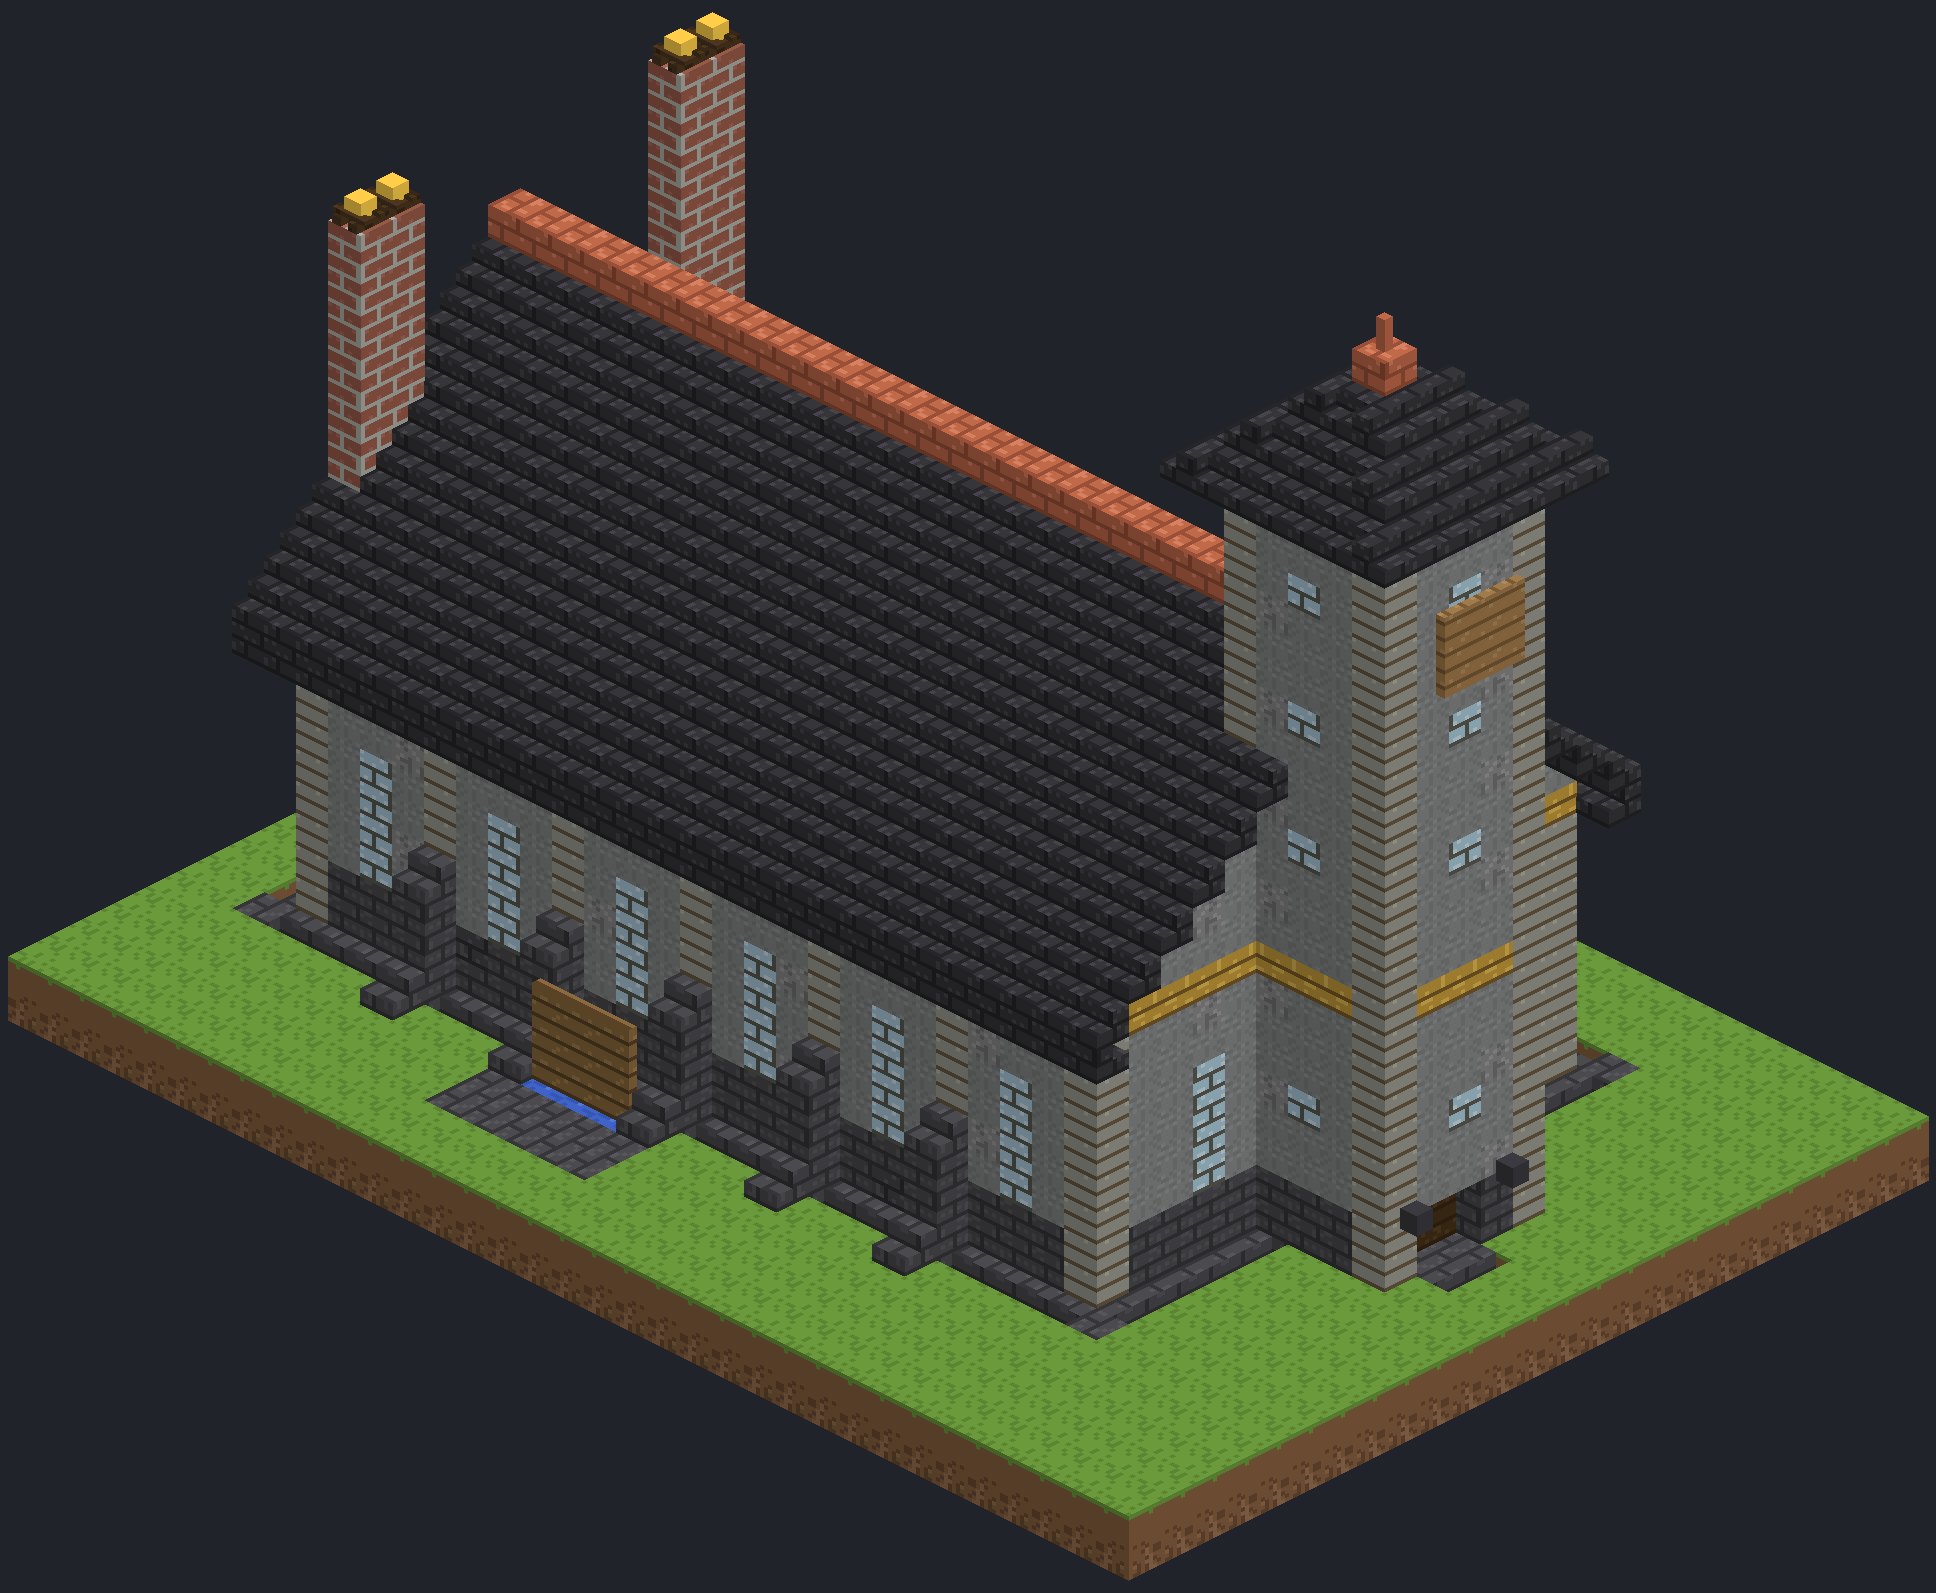
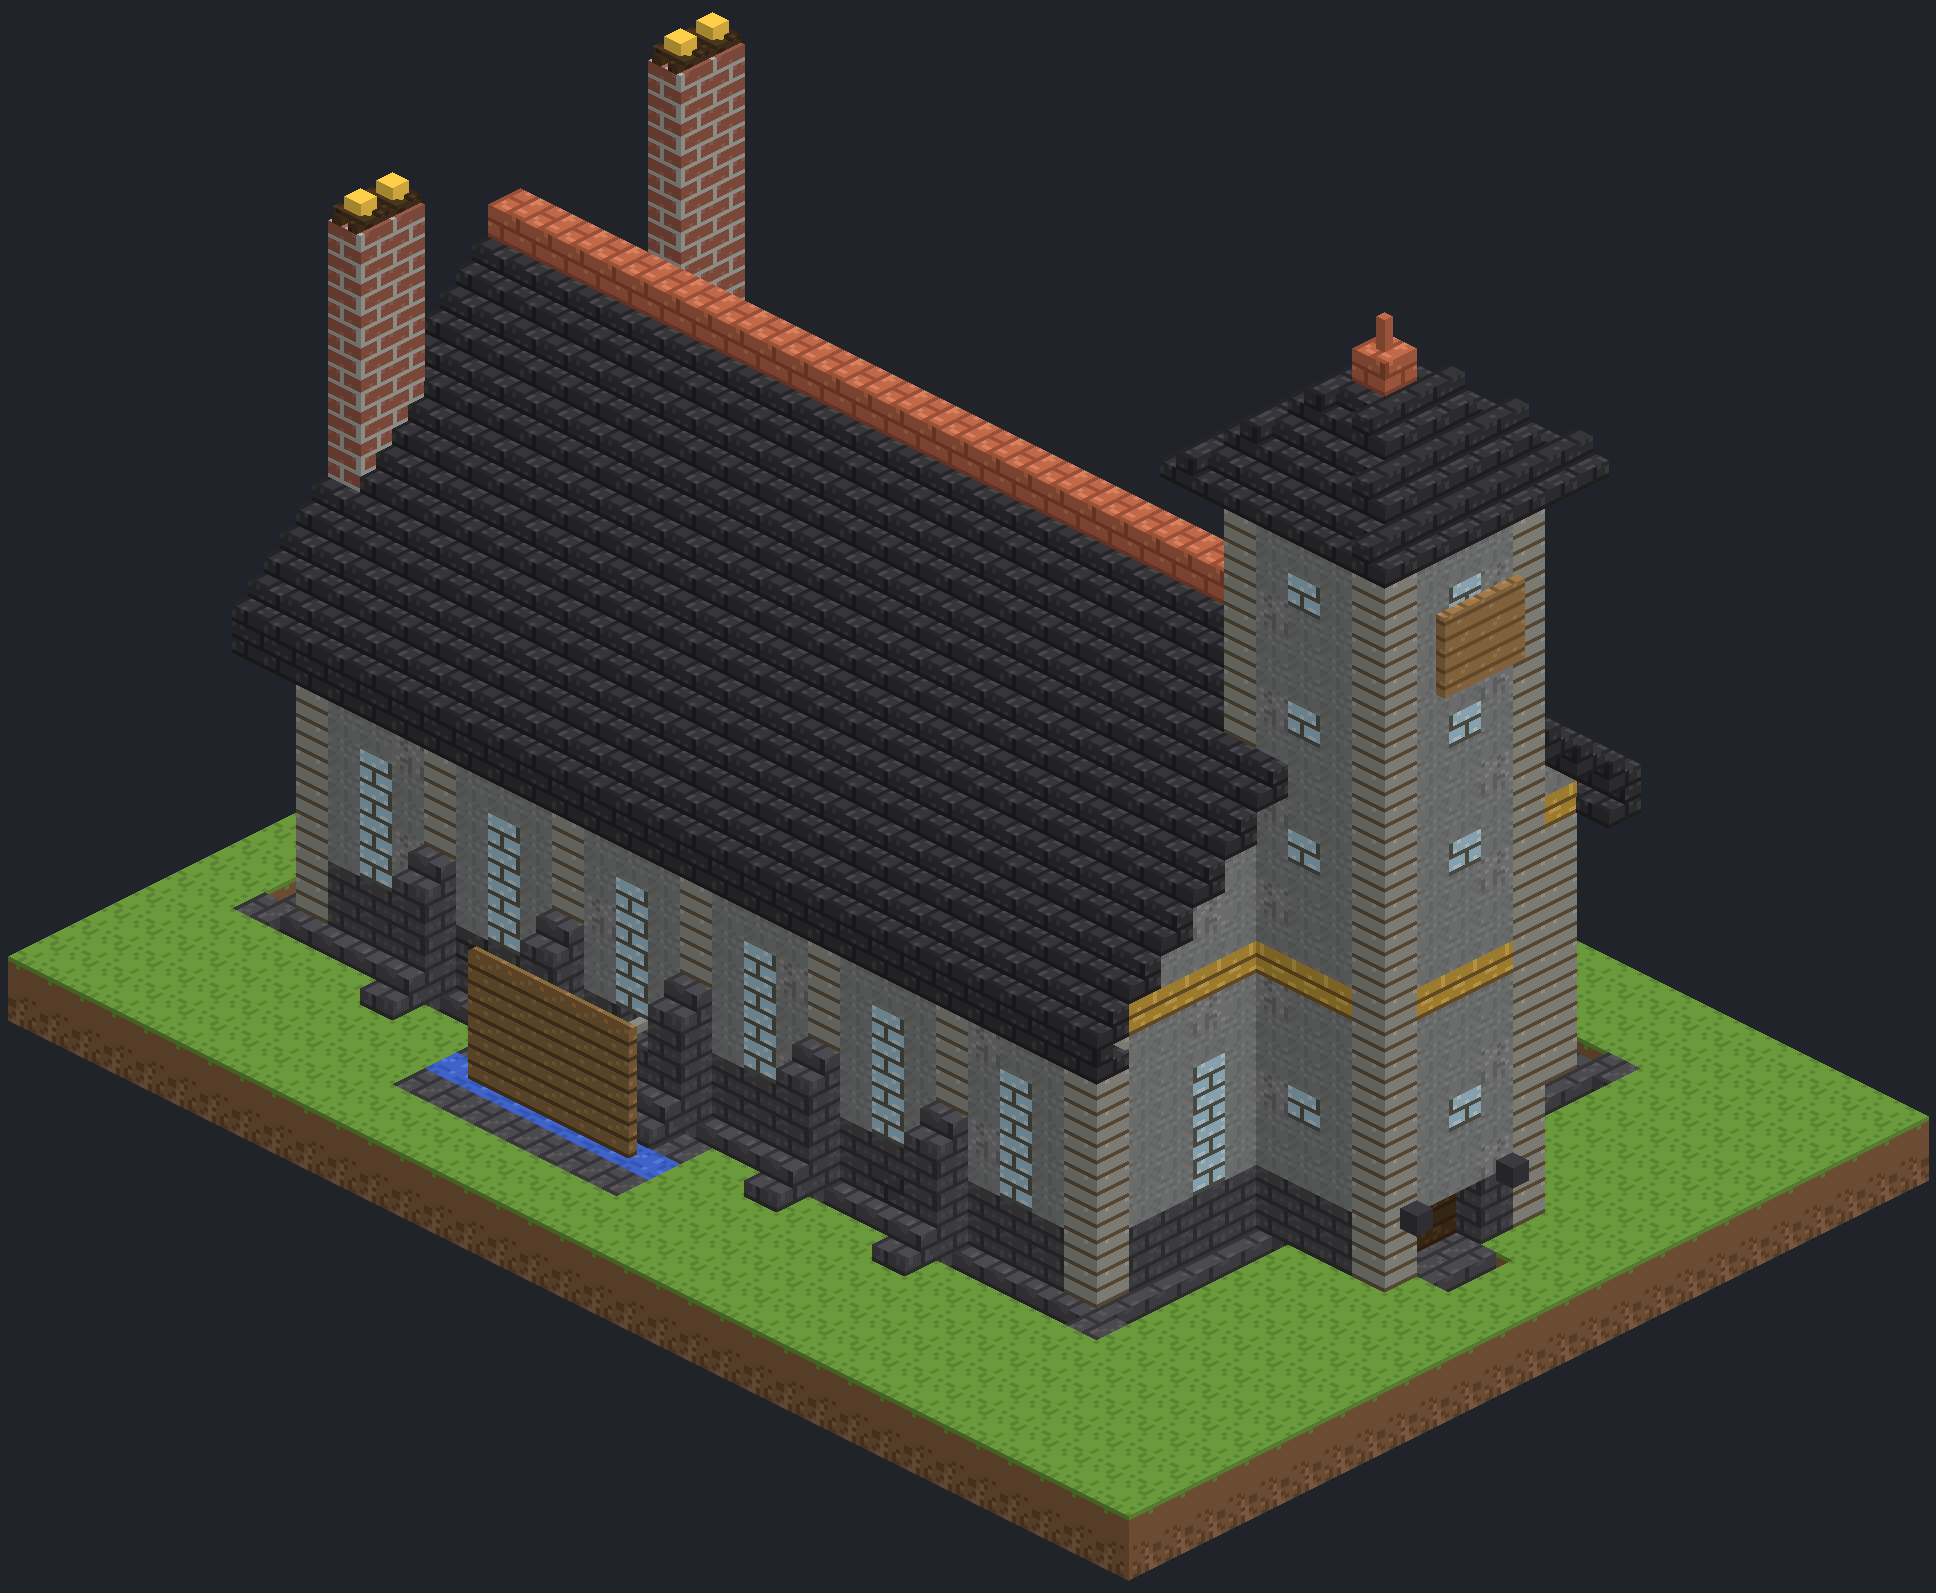
dwarf town hall: large water wheel in a mill race, gearbox and line shafts with cogwheels under the roof, hanging lanterns, feast tables with benches, forge corner
Claude-Session: https://claude.ai/code/session_01SN4dfHJrNdmPtx9mBHu3Jp

Changed region(s): [[0.186, 0.5844, 0.3719, 0.769]]

diff --git a/tools/culturegen/hand_dwarf.py b/tools/culturegen/hand_dwarf.py
@@ -141,6 +141,7 @@ def dwarf_hall(p, culture=None):
         _tower(g, xc, top, H)
     if p.get("wheel"):
         _water_wheel(g, -1, L // 2 + 2, H)
+        _line_shafts(g, W, L, H, L // 2 + 2)
     for i in range(p.get("chimneys", 0)):
         _chimney(g, W - 3 if i == 0 else 2, L, top)
     return g
@@ -199,13 +200,48 @@ def _tower(g, xc, roof_top, H):
 
 
 def _water_wheel(g, x, zc, H):
-    """Water wheel on the west wall driving a shaft into the hall, with a little race of water below."""
-    g.set(x - 1, 2, zc, P["wheel"], axis="x")
-    g.set(x, 2, zc, P["shaft"], axis="x")
-    for z in range(zc - 2, zc + 3):
-        g.set(x - 1, 0, z, "minecraft:water", level="0")
-        g.set(x - 2, 0, z, P["plinth"])
-        g.set(x - 3, 0, z, P["plinth"])
+    """Large Create water wheel (5x5) in a stone mill race on the west wall; its shaft runs through the wall
+    into a gearbox that feeds the hall's line shafts."""
+    wx = x - 2                                   # wheel plane, two blocks out from the skirt
+    for z in range(zc - 3, zc + 4):              # mill race: two deep, walled, under the wheel
+        for xx in (wx - 1, wx + 1):
+            for y in (-2, -1, 0):
+                g.set(xx, y, z, P["plinth"])
+        g.set(wx, -2, z, P["plinth"])
+        g.set(wx, -1, z, "minecraft:water", level="0")
+        g.set(wx, 0, z, "minecraft:water", level="0")
+    g.set(wx, 2, zc, "create:large_water_wheel", axis="x", extension="false", waterlogged="false")
+    for xx in range(wx + 1, 1):                  # through the skirt and the wall
+        g.set(xx, 2, zc, P["shaft"], axis="x")
+    g.set(1, 2, zc, "create:gearbox", axis="z")
+
+
+def _line_shafts(g, W, L, H, zc):
+    """Inside: from the gearbox a vertical shaft climbs to a line shaft running the length of the hall under the
+    roof, cogwheels on it every four blocks, and hanging lanterns down the nave."""
+    for y in range(3, H):
+        g.set(1, y, zc, P["shaft"], axis="y")
+    g.set(1, H, zc, P["cog"], axis="y")
+    for z in range(1, L - 1):
+        if z == zc:
+            continue
+        g.set(1, H, z, P["cog"] if z % 4 == 2 else P["shaft"], axis="z")
+    xc = W // 2
+    for z in range(3, L - 2, 4):
+        g.set(xc, H, z, "minecraft:chain", axis="y", waterlogged="false")
+        g.set(xc, H - 1, z, P["lantern"], hanging="true", waterlogged="false")
+    # feast tables with benches either side of the nave
+    for tx in (xc - 3, xc + 3):
+        for z in range(5, L - 5):
+            g.set(tx, 1, z, "minecraft:dark_oak_slab", type="top", waterlogged="false")
+            for bx, f in ((tx - 1, "west"), (tx + 1, "east")):
+                if 1 < bx < W - 2 and z % 3 != 0:
+                    g.set(bx, 1, z, "minecraft:dark_oak_stairs", facing=f, half="bottom", shape="straight",
+                          waterlogged="false")
+    # forge corner at the back: the hall is also the clan's first workshop
+    g.set(W - 2, 1, L - 2, "minecraft:blast_furnace", facing="west", lit="false")
+    g.set(W - 2, 1, L - 3, "minecraft:anvil", facing="north")
+    g.set(W - 3, 1, L - 2, "minecraft:smithing_table")
 
 
 def _chimney(g, x, L, roof_top):

diff --git a/tools/culturegen/render.py b/tools/culturegen/render.py
@@ -100,6 +100,13 @@ LOOK = {
     "create:water_wheel": ("planks", "#8a6a3e", "#5b4226", "#a07c4a"),
     "minecraft:lightning_rod": ("flat", "#c06a4a", "#c06a4a", "#c06a4a"),
     "minecraft:dark_oak_door": ("planks", "#43301a", "#352512", "#523b20"),
+    "create:large_water_wheel": ("planks", "#8a6a3e", "#5b4226", "#a07c4a"),
+    "create:gearbox": ("planks", "#9a9a92", "#6a5a42", "#b0b0a8"),
+    "minecraft:chain": ("flat", "#3a3a40", "#3a3a40", "#3a3a40"),
+    "minecraft:blast_furnace": ("cobble", "#5a5a5e", "#3e3e42", "#7a7a7e"),
+    "minecraft:anvil": ("flat", "#444448", "#444448", "#555558"),
+    "minecraft:smithing_table": ("planks", "#3a2a2a", "#2a1e1e", "#5a4a4a"),
+    "minecraft:dark_oak_pressure_plate": ("planks", "#4a3219", "#3a2712", "#5a3e20"),
     GRASS: ("grass", "#6a9a3c", "#5a8632", "#86603f"),
     FLAME: ("flat", "#ffcf4a", "#ffcf4a", "#ffcf4a"),
 }
@@ -175,8 +182,8 @@ def _shape(name, props):
             x0, x1 = N - th, N
         return ((x0, y0, z0), (x1, y1, z1))
 
-    if name in ("create:cogwheel", "create:large_cogwheel", "create:water_wheel", "create:shaft"):
-        r = {"create:cogwheel": 4, "create:large_cogwheel": 10, "create:water_wheel": 12, "create:shaft": 1}[name]
+    if name in ("create:cogwheel", "create:large_cogwheel", "create:water_wheel", "create:large_water_wheel", "create:shaft"):
+        r = {"create:cogwheel": 4, "create:large_cogwheel": 10, "create:water_wheel": 12, "create:large_water_wheel": 20, "create:shaft": 1}[name]
         a, b = N // 2 - r, N // 2 + r
         th = (3, 5) if name != "create:shaft" else (0, N)
         ax = props.get("axis", "y")
@@ -185,6 +192,8 @@ def _shape(name, props):
         if ax == "x":
             return [(((th[0], a, a), (th[1], b, b)), name)]
         return [(((a, th[0], a), (b, th[1], b)), name)]
+    if name == "minecraft:chain":
+        return [(((3, 0, 3), (5, N, 5)), name)]
     if name == "minecraft:lantern":
         return [(((2, 0, 2), (6, 5, 6)), name), (((3, 1, 3), (5, 4, 5)), FLAME)]
     if name == "minecraft:lightning_rod":
